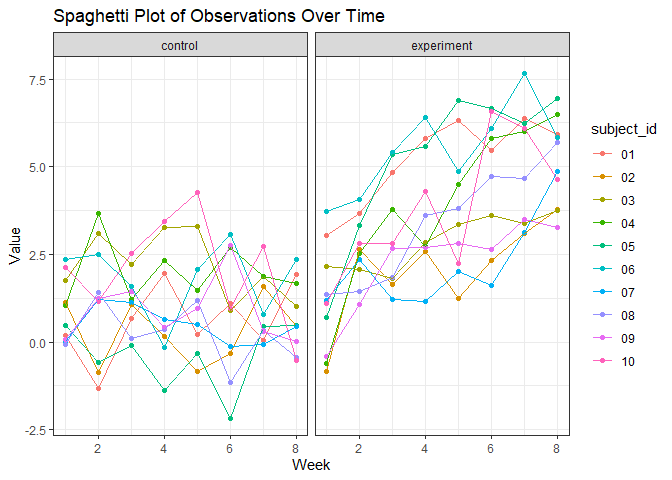
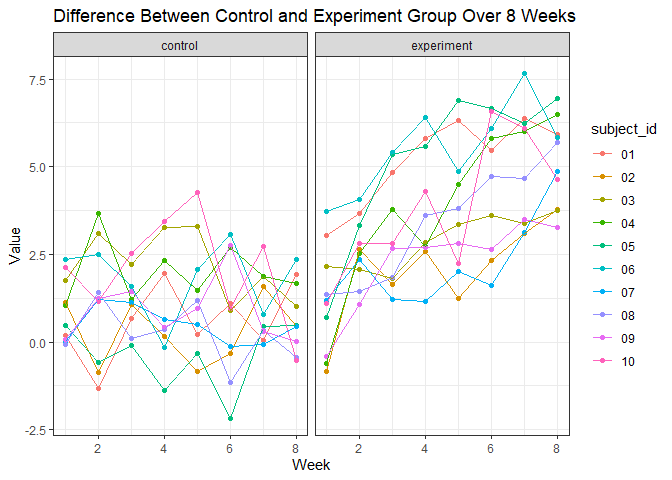
updated

Changed region(s): [[0.0625, 0.0, 0.875, 0.0625]]

diff --git a/p8105_hw5_bp2678.md b/p8105_hw5_bp2678.md
@@ -23,6 +23,8 @@ library(dplyr)
 library(ggplot2)
 ```
 
+\#Question 2
+
 \#Loaded the files and data frame in
 
 ``` r
@@ -55,7 +57,7 @@ tidy_files_df <- files_df %>%
 ggplot(tidy_files_df, aes(x = week, y = value, color = subject_id)) +
   geom_point() +
   geom_line() +
-  labs(title = "Spaghetti Plot of Observations Over Time",
+  labs(title = "Difference Between Control and Experiment Group Over 8 Weeks",
        x = "Week",
        y = "Value") +
   theme_bw() +
@@ -68,3 +70,5 @@ In the experiment group it shows that there is a general trend of the
 value increasing as the weeks go by. However, in the control group it
 seems to remain the same as the weeks go by and that there isn’t much
 change.
+
+\#Question 3
